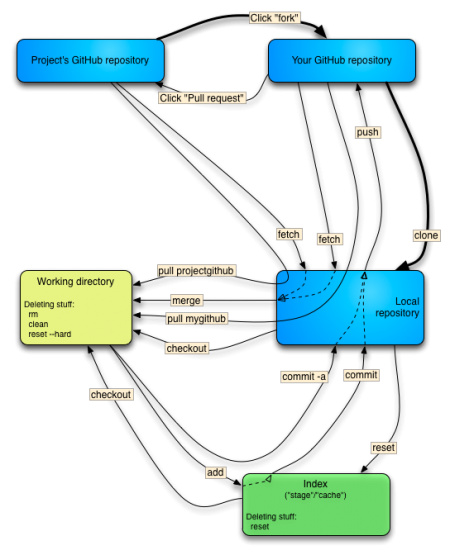
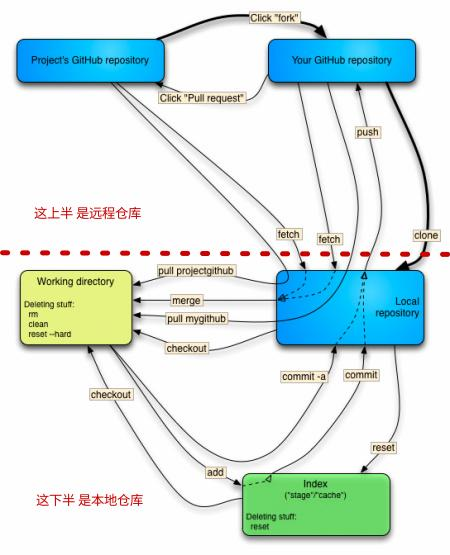
add github.md

diff --git a/github.md b/github.md
@@ -1,4 +1,12 @@
-## 添加Github与主机间认证
+# 如何利用Github合作？
+
+### 1. 注册github帐号
+- 打开 https://github.com
+  - 打不开? 连WIRELESS-NCEPU可上
+- 点击Sign UP注册帐号
+- 按照流程注册便是，不要忘了注册用的email
+
+### 2. 添加github与主机间认证
 
 	首先回答**为什么**要添加Github与主机间认证？
 
@@ -44,11 +52,10 @@
       
       - 点击Add SSH key
       
-      <img src="./pics/add-new-ssh-key.png" alt="add-new-ssh-key" style="zoom:25%;" />
-      
-  - 这样就在github中添加好你的公钥了
 
-      
+<img src="/home/hk416/src/git-Learn/pics/add-new-ssh-key.png" alt="add-new-ssh-key" style="zoom:30%;" />
+
+	这样就在github中添加好你的公钥了
 
 - 验证
 
@@ -61,4 +68,10 @@
     # Hi hk416hasu! You've successfully authenticated, but GitHub does not provide shell access.
     ```
     
-    
+
+### 3. 利用github合作的一种方式（线下详细讲）
+
+<img src="/home/hk416/src/git-Learn/pics/workflow.jpg" alt="workflow" style="zoom: 80%;" />
+
+这里我们主要讨论该图的上半部分，即远程仓库部分。仓库是什么？可以理解为
+首先，你在github上看到有个蛮不错的开源仓库

diff --git a/README.md b/README.md
@@ -9,6 +9,6 @@
 - [x] git安装与配置
 - [ ] git常用命令
 - [ ] 如何利用github合作？
-- [x] github本地认证方式
+  - [x] github本地认证方式
 
 ... 欢迎补充！
